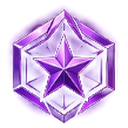
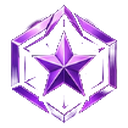
Les badges passent a cote du nom, et perdent leur halo
Le halo
-------
Le detourage rend la lueur telle qu elle est : du semi-transparent. C est exact,
et c etait indesirable. Sur ces dessins la lueur s etale largement — un quart de
la surface visible du pionnier, un tiers de celle du chasseur de bogues — et une
fois posee sur une page claire elle se lit comme une salissure autour du badge,
un halo orange sur la couronne, un voile cyan sur le scarabee.

`--net` jette ce qui est sous une opacite donnee. Pas en coupant net, ce qui
crenellerait tous les bords : l opacite est remise a l echelle, de sorte que ce
qui etait au-dessus du seuil retrouve une rampe complete et que le pourtour
garde sa transition douce. A 0.45 le halo part et aucun dessin ne s abime — les
dix-sept sont refaits avec.

La place
--------
Les badges obtenus etaient une liste sous les roles, en pastilles portant leur
nom en toutes lettres. Deux defauts : ils poussaient le statut et toute la suite
de la fiche vers le bas, et ils se lisaient comme un inventaire. Un badge n est
pas une ligne d inventaire — c est une marque a cote du nom, et c est la qu on
la cherche.

Ils sont donc a droite du nom, dessin seul, a dix-huit pixels. Le nom du badge
passe dans l infobulle, ou il ne coute aucune place ; a cette taille le dessin se
reconnait sans etre nomme, et il en faut plusieurs sur une ligne. Les fanions
passent a la ligne plutot que de comprimer le nom : quelqu un qui en aura huit ne
doit pas voir son pseudo reduit a trois lettres.
[…]

diff --git a/src/features/profile/ProfileCard.tsx b/src/features/profile/ProfileCard.tsx
@@ -227,7 +227,44 @@ export function ProfileCard({ userId }: { userId: UUID }) {
             </div>
 
             <div className="profile__identity">
-              <h2 className="profile__name">{profile.display_name}</h2>
+              {/*
+                Les badges obtenus se rangent a droite du nom.
+
+                Ils etaient plus bas, en pastilles portant leur nom en toutes
+                lettres — une deuxieme liste sous celle des roles, qui poussait
+                le statut et la suite de la fiche vers le bas et se lisait comme
+                un inventaire. Un badge n'est pas une ligne d'inventaire : c'est
+                une marque a cote du nom, et c'est la qu'on la cherche.
+
+                Le nom du badge passe dans l'infobulle. A cette taille le dessin
+                se reconnait sans etre nomme, et il en faut plusieurs sur une
+                ligne.
+              */}
+              <div className="profile__ligne-nom">
+                <h2 className="profile__name">{profile.display_name}</h2>
+
+                {mesBadges.length > 0 ? (
+                  <ul className="profile__fanions">
+                    {mesBadges.map(({ badge, obtenu }) => (
+                      <li
+                        key={badge.cle}
+                        title={
+                          `${badge.nom} : ${badge.description}` +
+                          (obtenu.position !== null ? ` (n°${obtenu.position})` : '')
+                        }
+                      >
+                        <BadgeVisual
+                          badgeCle={badge.cle}
+                          nom={badge.nom}
+                          teinte={badge.teinte}
+                          size={18}
+                        />
+                      </li>
+                    ))}
+                  </ul>
+                ) : null}
+              </div>
+
               <p className="profile__handle">
                 @{profile.username}
                 {profile.pronouns ? (
@@ -247,37 +284,6 @@ export function ProfileCard({ userId }: { userId: UUID }) {
                   <li key={role} className={`profile-badge profile-badge--${role}`}>
                     <Icon name={ROLE_ICON[role]} size={13} />
                     {ROLE_LABEL[role]}
-                  </li>
-                ))}
-              </ul>
-            ) : null}
-
-            {/*
-              Les badges obtenus, apres les roles.
-
-              Les deux se ressemblent a l'ecran et n'ont rien a voir : un role
-              dit ce qu'on peut faire dans un espace, un badge dit ce qu'on a
-              fait. On les separe donc par leur teinte, qui vient du badge
-              lui-meme.
-            */}
-            {mesBadges.length > 0 ? (
-              <ul className="profile__badges profile__badges--obtenus">
-                {mesBadges.map(({ badge, obtenu }) => (
-                  <li
-                    key={badge.cle}
-                    className="profile-badge-item"
-                    title={`${badge.nom} : ${badge.description}`}
-                  >
-                    <BadgeVisual
-                      badgeCle={badge.cle}
-                      nom={badge.nom}
-                      teinte={badge.teinte}
-                      size={20}
-                    />
-                    <span>{badge.nom}</span>
-                    {obtenu.position !== null ? (
-                      <span className="profile-badge-item__rang">#{obtenu.position}</span>
-                    ) : null}
                   </li>
                 ))}
               </ul>

diff --git a/src/devPreview.tsx b/src/devPreview.tsx
@@ -110,6 +110,36 @@ export function devPreview(name: string): ReactNode | null {
     useChat.setState((state) => ({ profiles: { ...state.profiles, [faux.id]: faux as never } }));
 
     /*
+     * Quelques badges, sinon la ligne du nom se verifie a vide.
+     *
+     * C'est justement leur place a cote du nom qu'on regarde ici, et une fiche
+     * sans badge ne montre pas ce qu'on cherche : comment un nom long cohabite
+     * avec plusieurs dessins, et ce qui se passe quand la ligne deborde.
+     */
+    useBadges.setState({
+      catalogue: [
+        ['pionnier', 'Pionnier', 'Parmi les cent premiers comptes ouverts sur Echow.', 'soutien', '#f59e0b', 100, 1],
+        ['premiere-heure', 'Premiere heure', 'Present le jour de l’ouverture.', 'soutien', '#ec4899', null, 2],
+        ['rapporteur', 'Chasseur de bogues', 'A signale un defaut qui a ete corrige.', 'succes', '#10b981', null, 4],
+        ['messages-100k', 'Plume — 100 000', 'A ecrit cent mille messages.', 'succes', '#a855f7', null, 22],
+        ['anciennete-3ans', 'Veteran — 3 ans', 'Compte ouvert depuis plus de trois ans.', 'anciennete', '#f59e0b', null, 41],
+      ].map(([cle, nom, description, famille, teinte, limite, rang]) => ({
+        cle, nom, description, famille, teinte, limite, rang,
+      })) as Badge[],
+      parProfil: {
+        [faux.id]: [
+          { badge_cle: 'pionnier', position: 7, obtenu_le: '2026-08-26T00:20:00.000Z' },
+          { badge_cle: 'premiere-heure', position: null, obtenu_le: '2026-08-26T00:20:00.000Z' },
+          { badge_cle: 'rapporteur', position: null, obtenu_le: '2026-08-30T10:00:00.000Z' },
+          { badge_cle: 'messages-100k', position: null, obtenu_le: '2026-09-01T10:00:00.000Z' },
+          { badge_cle: 'anciennete-3ans', position: null, obtenu_le: '2026-09-01T10:00:00.000Z' },
+        ],
+      },
+      chargement: false,
+      charger: async () => {},
+    });
+
+    /*
      * `?preview=profil:moi` ouvre sa PROPRE fiche.
      *
      * C'est un autre rendu : l'avatar y est enveloppe dans un bouton, la

diff --git a/src/styles/badges.css b/src/styles/badges.css
@@ -311,40 +311,13 @@
    Badges dans la fiche de profil (ProfileCard) & BadgesPage
    -------------------------------------------------------------------------- */
 
-.profile__badges--obtenus {
-  display: flex;
-  flex-wrap: wrap;
-  gap: 8px;
-  padding: 6px 0;
-}
-
-.profile-badge-item {
-  display: inline-flex;
-  align-items: center;
-  gap: 6px;
-  padding: 4px 10px 4px 6px;
-  background: var(--bg-sunken);
-  border: 1px solid var(--border-subtle);
-  border-radius: 20px;
-  font-size: 12px;
-  font-weight: 600;
-  color: var(--text-primary);
-  backdrop-filter: blur(8px);
-  transition: all 0.2s ease;
-}
-
-.profile-badge-item:hover {
-  background: color-mix(in oklab, var(--text-primary) 8%, var(--bg-sunken));
-  border-color: var(--border-strong);
-  transform: translateY(-1px);
-}
-
-.profile-badge-item__rang {
-  font-size: 10px;
-  padding: 1px 5px;
-  border-radius: 10px;
-  background: color-mix(in oklab, var(--badge-color, #6366f1) 30%, transparent);
-  color: var(--text-primary);
-  font-weight: 700;
-  letter-spacing: 0.02em;
-}
+/*
+ * Les badges dans la fiche de profil.
+ *
+ * Ils y etaient des pastilles portant leur nom en toutes lettres, en liste sous
+ * les roles. Ils sont maintenant a droite du nom, dessin seul : voir
+ * `.profile__fanions` dans `surfaces.css`. A dix-huit pixels le dessin se
+ * reconnait sans etre nomme, et il en faut plusieurs sur une ligne.
+ *
+ * Le nom est passe dans l'infobulle, ou il ne coute aucune place.
+ */

diff --git a/src/styles/features.css b/src/styles/features.css
@@ -2727,22 +2727,14 @@ li:has(.mention-list__item--globale) + li:not(:has(.mention-list__item--globale)
    La fiche de profil : badges obtenus, comptes lies, activite
    -------------------------------------------------------------------------- */
 
-.profile__badges--obtenus {
-  margin-top: 6px;
-}
-
 /*
- * Un badge obtenu porte sa propre teinte.
+ * Les badges obtenus ne sont plus une liste ici.
  *
- * Les roles et les badges se ressemblent a l'ecran et n'ont rien a voir : un
- * role dit ce qu'on peut faire dans un espace, un badge dit ce qu'on a fait. La
- * couleur est ce qui les separe sans qu'il faille lire.
+ * Ils sont passes a droite du nom, dessin seul — voir `.profile__fanions` dans
+ * `surfaces.css`. Les regles qui les habillaient en pastilles teintees sont
+ * parties avec eux : ce qui distinguait un badge d'un role etait leur couleur,
+ * et un dessin n'a plus besoin qu'on l'en distingue.
  */
-.profile-badge--obtenu {
-  border-color: color-mix(in oklab, var(--teinte) 45%, transparent);
-  background: color-mix(in oklab, var(--teinte) 15%, transparent);
-  color: var(--teinte);
-}
 
 .profile-badge__rang {
   margin-left: 3px;

diff --git a/src/styles/surfaces.css b/src/styles/surfaces.css
@@ -168,6 +168,36 @@
   line-height: 1.15;
 }
 
+/*
+ * Le nom, et les badges a sa droite.
+ *
+ * `align-items: center` et non `baseline` : un dessin n'a pas de ligne de base,
+ * et l'aligner sur celle du texte le fait flotter au-dessus.
+ *
+ * Les fanions passent a la ligne plutot que de comprimer le nom — quelqu'un qui
+ * en aura huit ne doit pas voir son pseudo reduit a trois lettres.
+ */
+.profile__ligne-nom {
+  display: flex;
+  flex-wrap: wrap;
+  align-items: center;
+  gap: var(--space-2) var(--space-3);
+}
+
+.profile__fanions {
+  display: flex;
+  flex-wrap: wrap;
+  align-items: center;
+  gap: 5px;
+  margin: 0;
+  padding: 0;
+  list-style: none;
+}
+
+.profile__fanions li {
+  display: flex;
+}
+
 .profile__handle {
   font-size: var(--text-sm);
   color: var(--text-muted);

diff --git a/outils/detourer.py b/outils/detourer.py
@@ -8,6 +8,8 @@ Options
     --fond R,G,B  couleur du fond, si l'estimation se trompe
     --seuil A,B   distances de bascule, sur 255 (14,140 par defaut ; la borne
                   basse est remontee toute seule si le fond est bruite)
+    --net S       jette le halo sous S d'opacite (0 a 1) et remet le reste a
+                  l'echelle ; 0.45 retire une lueur qui salit sur page claire
     --principal   ne garde que le dessin, et jette ce qui flotte a cote
     --apercu F    ecrit en plus une planche avant/apres, sur damier
 
@@ -213,6 +215,25 @@ def detourer(
     return Image.fromarray(sortie.astype(np.uint8), 'RGBA')
 
 
+def jeter_le_voile(image: Image.Image, seuil: float) -> Image.Image:
+    """Retire le halo tres transparent, garde l'anticrenelage des vrais bords.
+
+    Le detourage rend la lueur telle qu'elle est : du semi-transparent. C'est
+    exact, et parfois indesirable — sur ces dessins la lueur s'etale largement,
+    et une fois posee sur une page claire elle se lit comme une salissure autour
+    du badge plutot que comme un rayonnement.
+
+    On ne coupe pas net a l'opacite voulue, ce qui crenellerait tous les bords :
+    l'opacite est REMISE A L'ECHELLE. Ce qui etait sous le seuil disparait, ce
+    qui etait au-dessus retrouve une rampe complete, et le pourtour du dessin
+    garde sa transition douce.
+    """
+    a = np.asarray(image).astype(np.float64)
+    plancher = seuil * 255
+    a[..., 3] = np.clip((a[..., 3] - plancher) / (255 - plancher), 0, 1) * 255
+    return Image.fromarray(a.astype(np.uint8), 'RGBA')
+
+
 def garder_le_principal(image: Image.Image, part: float = 0.06) -> Image.Image:
     """Ne garde que le dessin, et jette ce qui flotte a cote.
 
@@ -304,6 +325,8 @@ def main(argv: list[str]) -> int:
 
     source = Image.open(entree)
     detoure = detourer(source, fond, seuil)
+    if 'net' in options:
+        detoure = jeter_le_voile(detoure, float(options['net']))
     if 'principal' in options:
         detoure = garder_le_principal(detoure)
     decoupe = cadrer(detoure, taille, marge)
